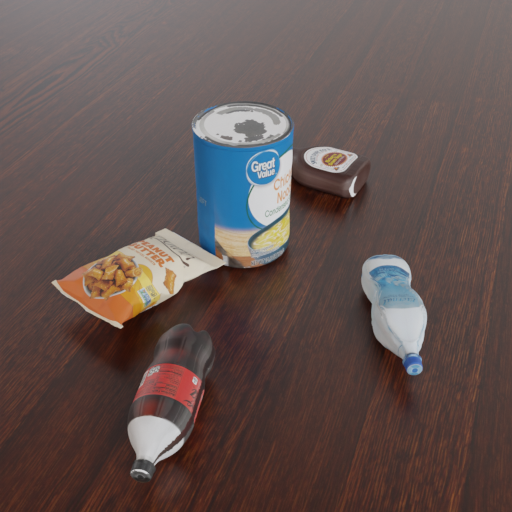
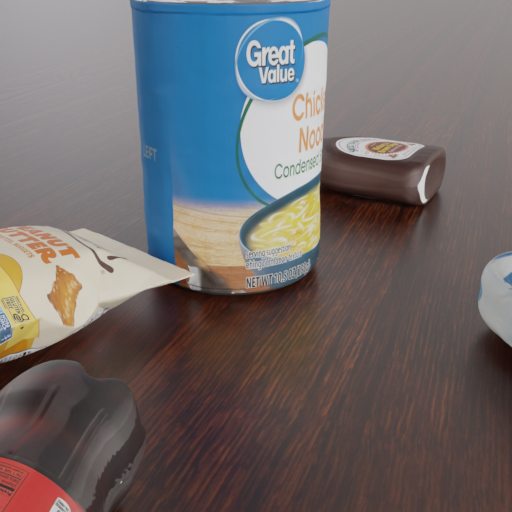
update position

diff --git a/synthgen.py b/synthgen.py
@@ -243,8 +243,8 @@ def bake_physics(rigid_objs: list[bpy.types.Object], frames: int = 120):
 
 def sample_camera_pose(center: Vector, radius: float) -> tuple[Vector, Euler]:
     theta = random.uniform(0, 2 * math.pi)
-    phi = random.uniform(math.radians(15), math.radians(55))
-    r = radius * random.uniform(2.5, 4.0)
+    phi = random.uniform(math.radians(10), math.radians(35))
+    r = radius * random.uniform(1.2, 1.8)
 
     x = center.x + r * math.cos(theta) * math.cos(phi)
     y = center.y + r * math.sin(theta) * math.cos(phi)
@@ -351,7 +351,7 @@ def generate_scene(glb_paths: list[str], scene_idx: int, cameras: list,
     locations = [o.location for o in objs]
     center = sum(locations, Vector((0, 0, 0))) / len(locations)
 
-    max_dist = 0.3
+    max_dist = 0.05
     for o in objs:
         for corner in o.bound_box:
             world_corner = o.matrix_world @ Vector(corner)

diff --git a/README.md b/README.md
@@ -4,6 +4,6 @@ A synthetic dataset generation pipeline that consumes glb files from CFI-3DGen a
 ## How to generate a dataset (sample commands):
 ```bash
 uv sync
-uv run python synthgen.py --glbs ./glbs --out ./dataset --scenes 100 --products-per-scene 3 --cameras-per-scene 6 --resolution 640 --seed 0
-uv run python synthgen.py --glbs ./glbs --out ./dataset --scenes 1 --products-per-scene 2 --cameras-per-scene 1 --resolution 256 
+uv run python synthgen.py --glbs ./approved_bundle --out ./dataset --scenes 2 --products-per-scene 5 --cameras-per-scene 3 --resolution 512 --hdri hdri/studio.exr --backgrounds ./textures
+
 ```
